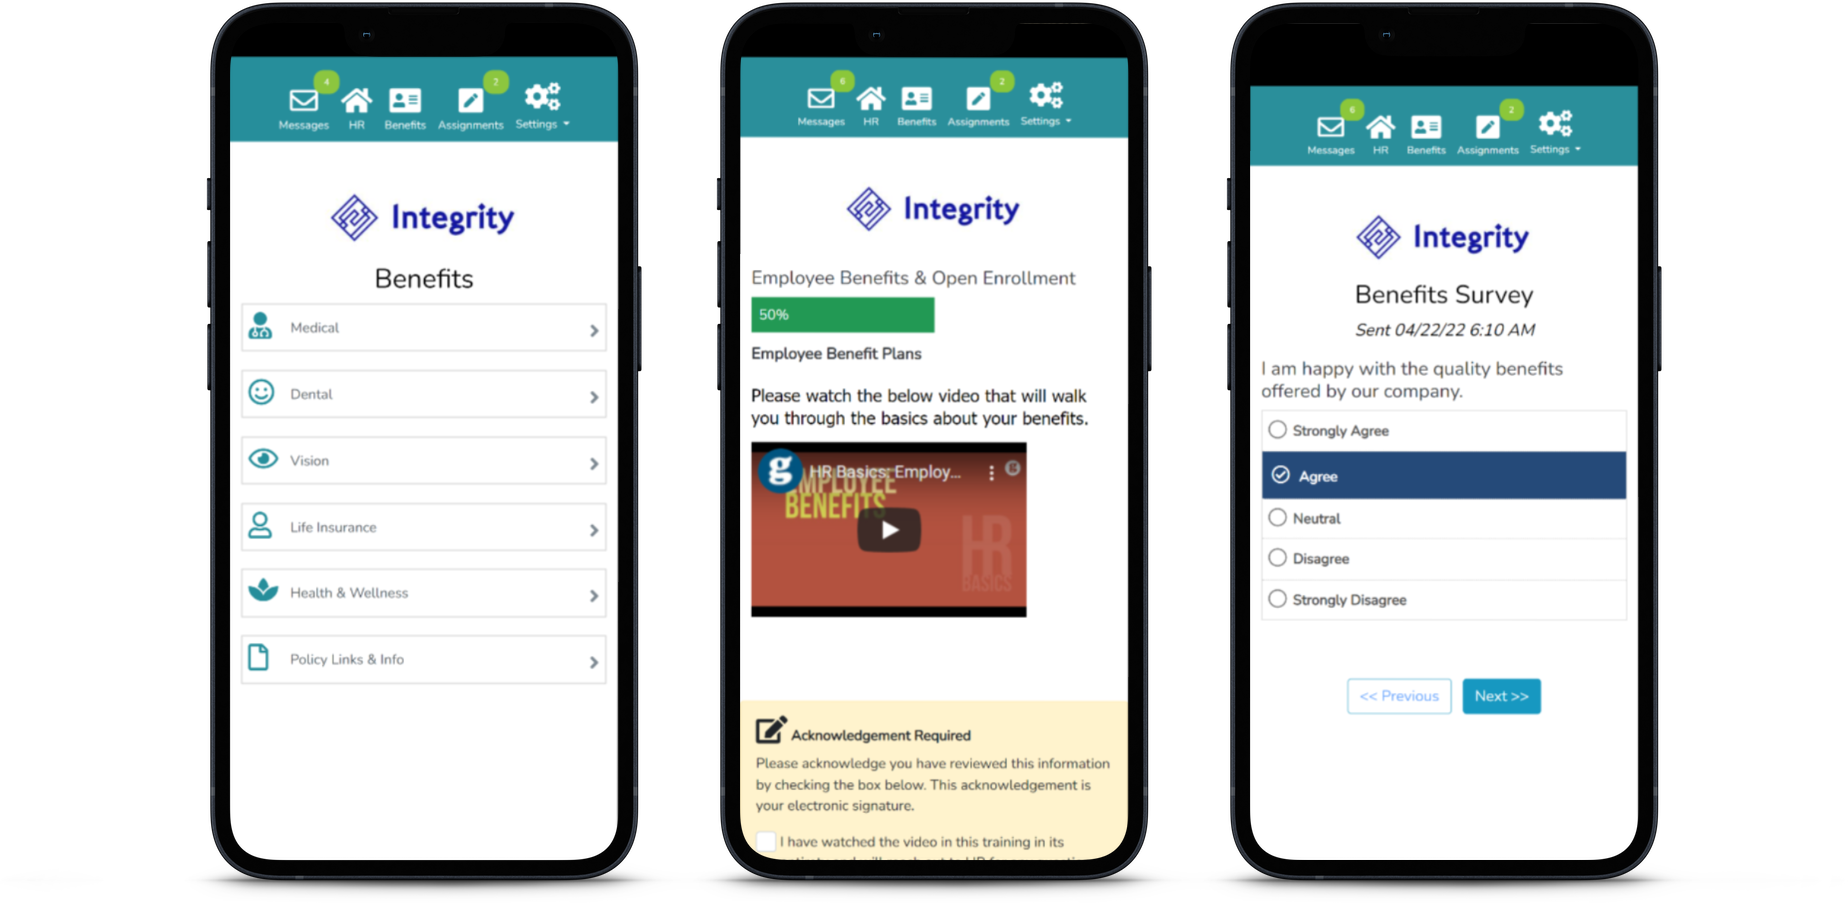
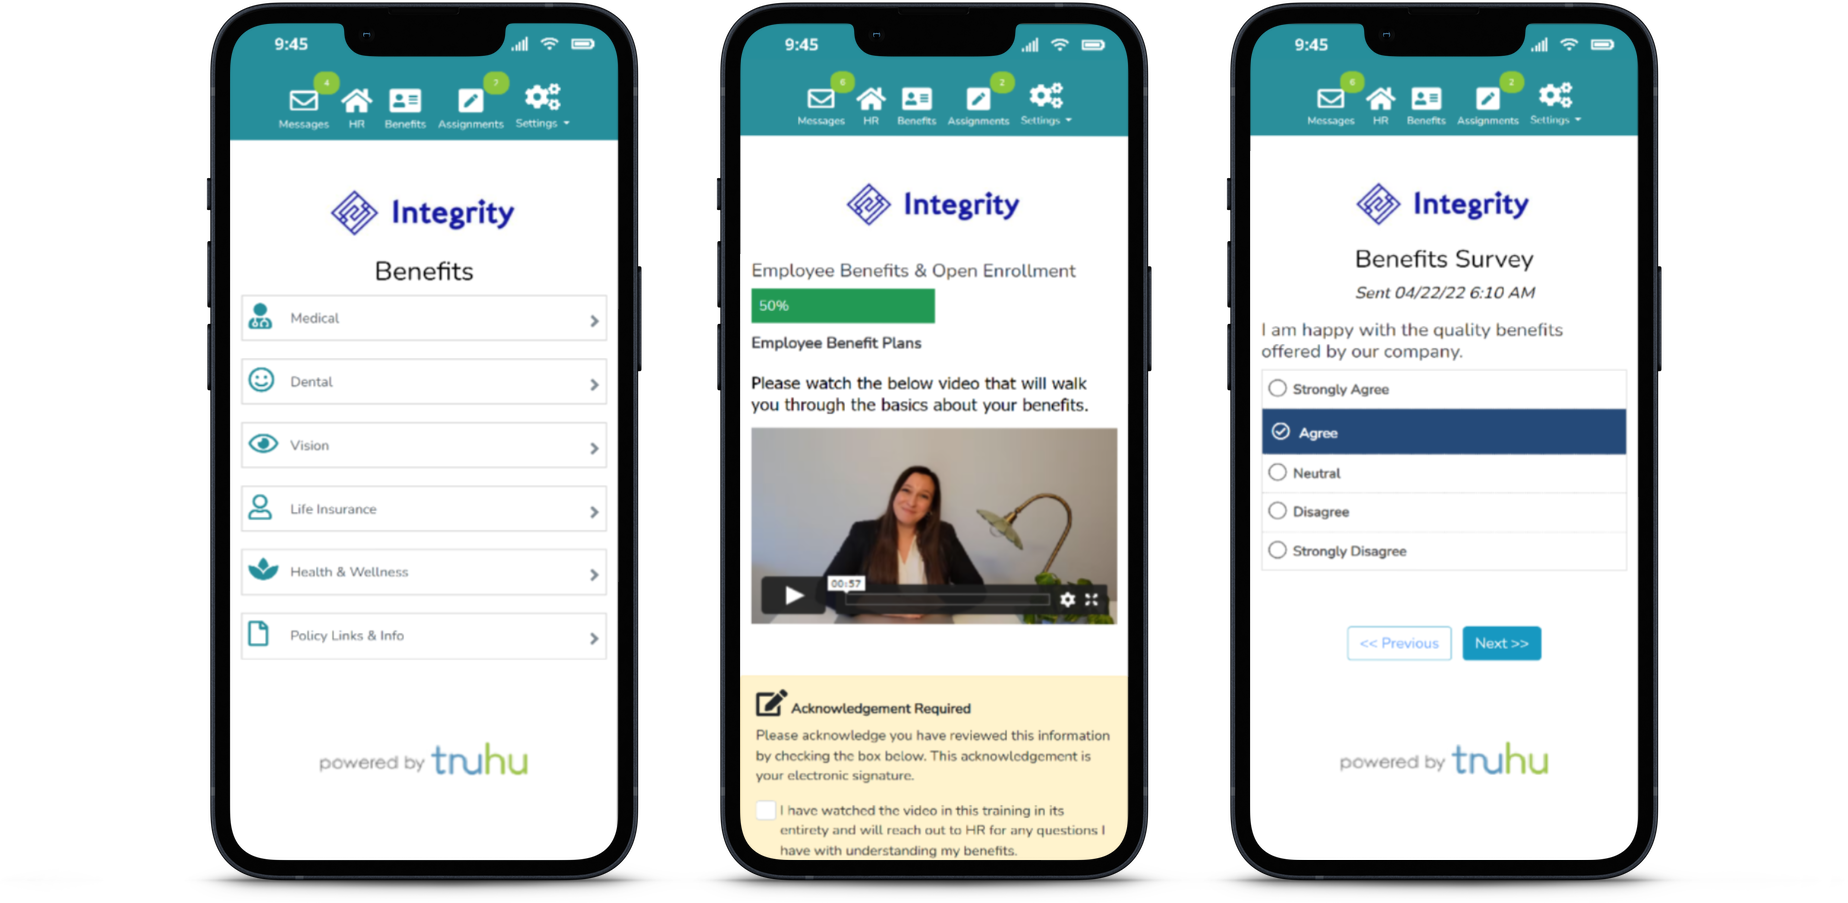
fixed phones on hcm payroll

diff --git a/index.html b/index.html
@@ -74,7 +74,7 @@
 				<span class="icon icon-bar"></span>
 			</button>
 			
-			<a href="#intro" class="smoothScroll active"><image src="th/images/truhulogo.png" class="navbar-brand" alt="TruHu"></image></a>
+			<a href="#intro" class="smoothScroll"><image src="th/images/truhulogo.png" class="navbar-brand" alt="TruHu"></image></a>
 		</div>
 		<div class="collapse navbar-collapse">
 			<ul class="nav navbar-nav navbar-right">

diff --git a/th/hcm-payroll.html b/th/hcm-payroll.html
@@ -190,7 +190,7 @@
 	<div class="container">
 		<div class="row">
 			
-			<img src="images/broker_phones_lg.png" class="img-responsive hide-nonmobile">
+			<img src="images/broker_phones.png" class="img-responsive hide-nonmobile">
 			
 			<div class="wow fadeInLeft col-md-5 col-sm-5 vcenter zpat-headings" data-wow-delay="0.6s">
 				<h2>Amplify Your Platform. Unleash Client Growth.</h2>
